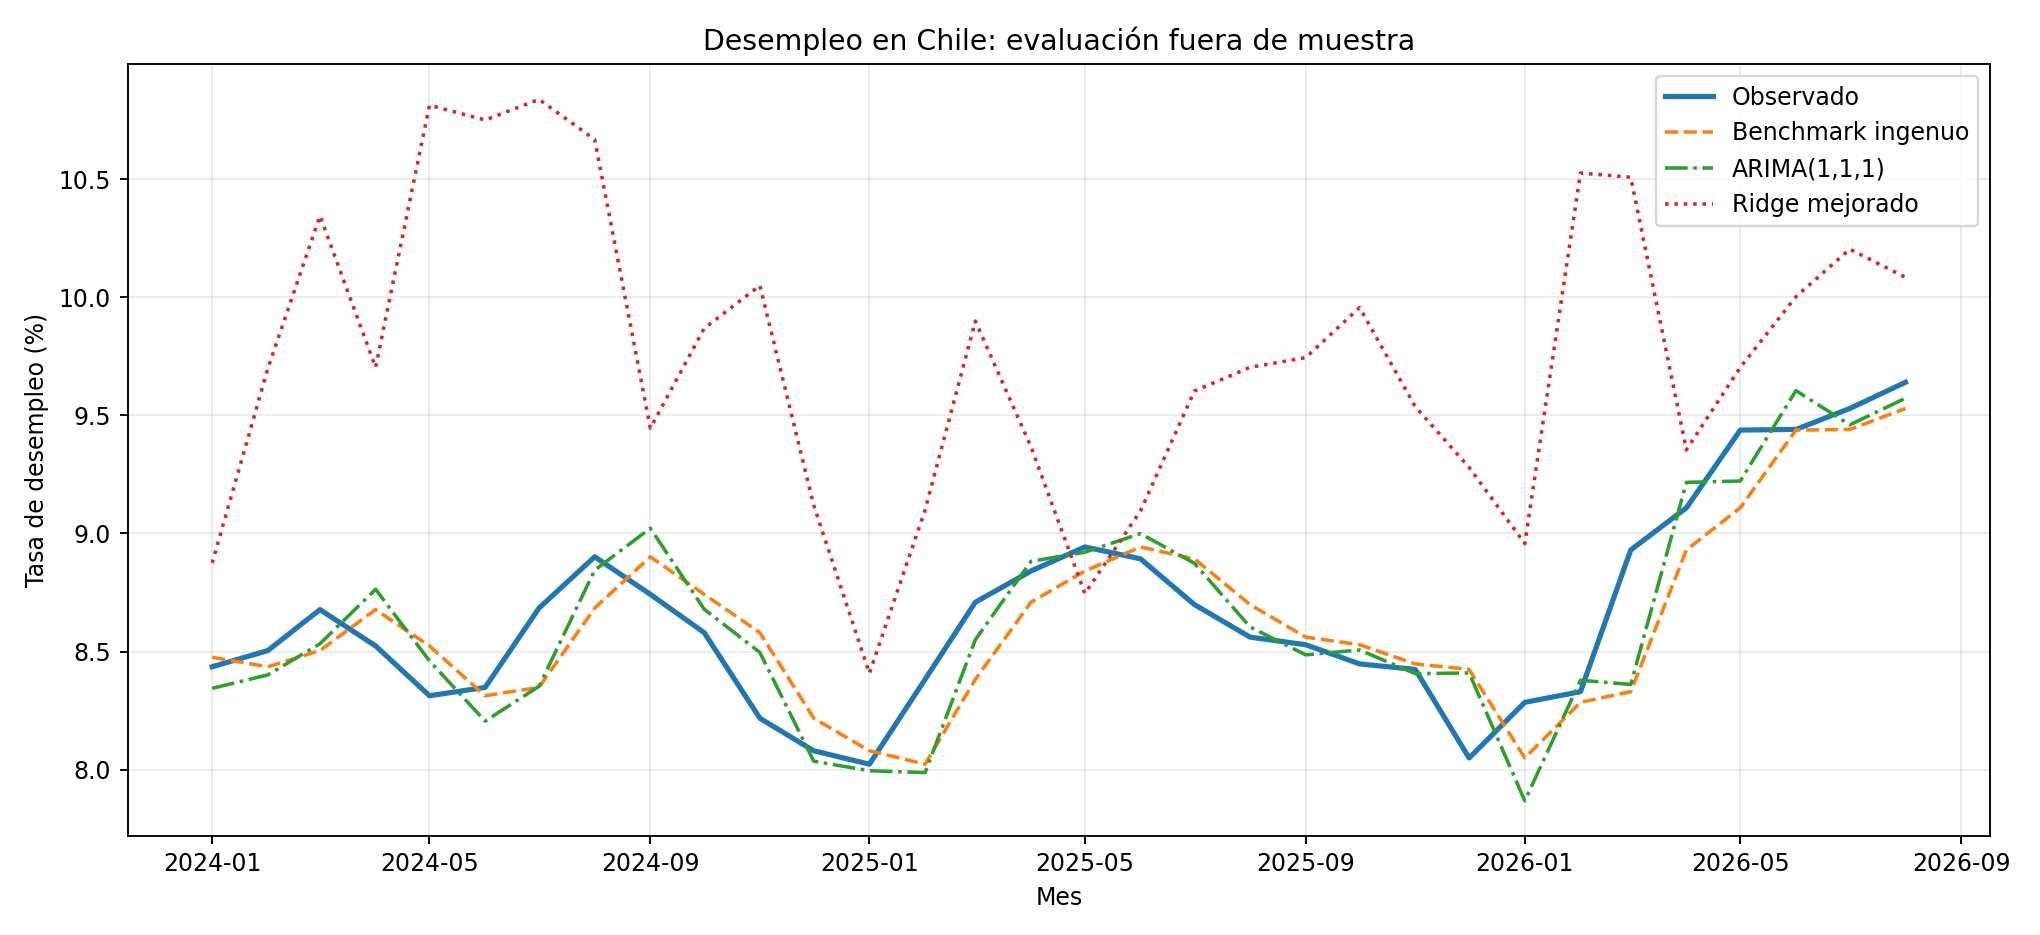
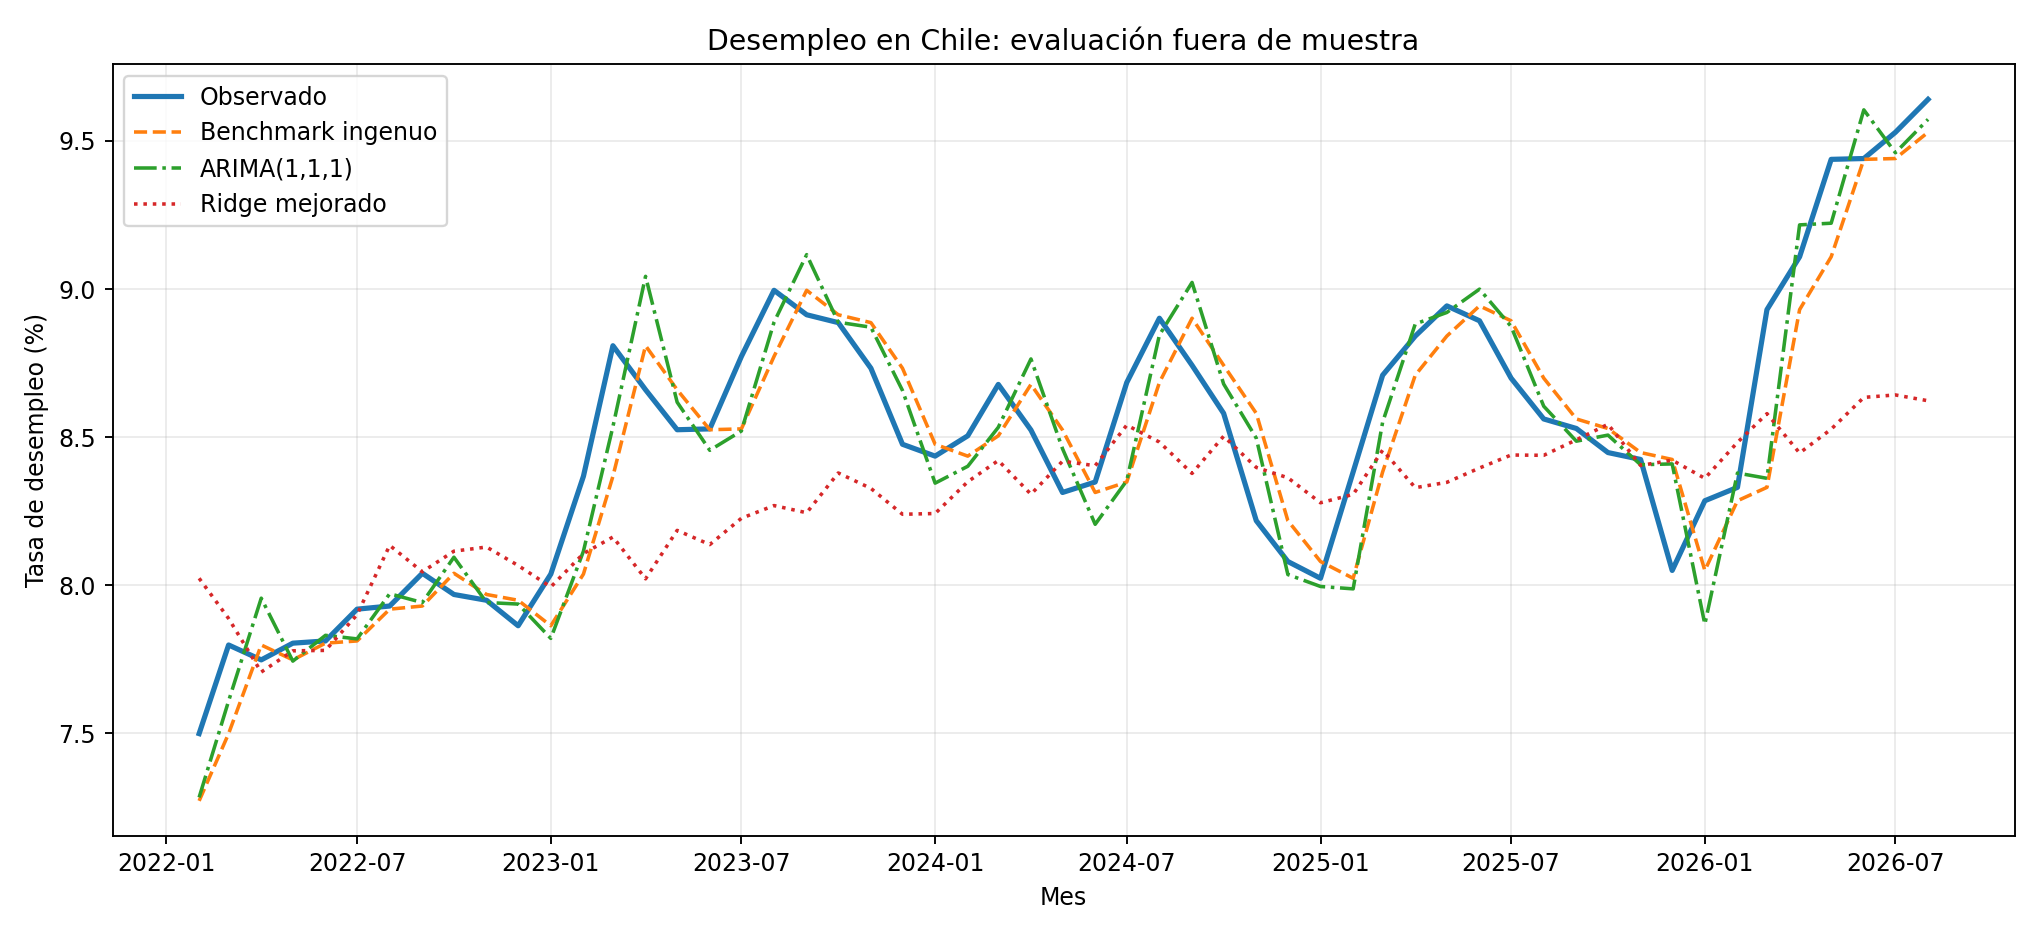
Unifica evaluacion final y actualiza resultados de modelos

diff --git a/modelos/optimizar_ridge.py b/modelos/optimizar_ridge.py
@@ -12,6 +12,16 @@ se observa en el rezago 2, con una correlación aproximada de -0.878.
 El signo negativo es coherente con la relación económica esperada: una mayor
 actividad económica tiende a asociarse con una menor tasa de desempleo después
 de cierto rezago.
+
+La optimización interna explora distintas configuraciones y valores de alpha.
+El mejor resultado dentro de esta etapa no 
+determina por si sola especificación final del modelo Ridge
+
+La selección definitiva se realiza en evaluacion_comparativa.py, donde los
+modelos se comparan bajo un mismo esquema de evaluación fuera de muestra.
+Aunque alpha=1000 obtiene el mejor resultado en la optimización interna,
+alpha=500 presenta un mejor desempeño en la evaluación comparativa final y,
+por ello, se utiliza como especificación definitiva del modelo Ridge.
 """
 import sqlite3
 import numpy as np
@@ -168,7 +178,7 @@ tabla.to_csv(
 print("\nRESULTADOS DE OPTIMIZACION RIDGE")
 print(tabla.to_string(index=False, float_format=lambda x: f"{x:.4f}"))
 
-print("\nMEJOR CONFIGURACION")
+print("\nMEJOR CONFIGURACION EN LA OPTIMIZACION INTERNA")
 print(tabla.iloc[0].to_string())
 
 print("\nArchivo guardado:")

diff --git a/modelos/modelos_desempleo.py b/modelos/modelos_desempleo.py
@@ -70,7 +70,7 @@ def parse_args():
     parser = argparse.ArgumentParser()
     parser.add_argument(
         "--inicio-evaluacion",
-        default="2024-01",
+        default="2022-02",
         help="Primer mes de evaluación, AAAA-MM"
     )
     return parser.parse_args()
@@ -249,7 +249,7 @@ def main():
 
             model = make_pipeline(
                 StandardScaler(),
-                Ridge(alpha=1.0)
+                Ridge(alpha=500)
             )
 
             model.fit(
